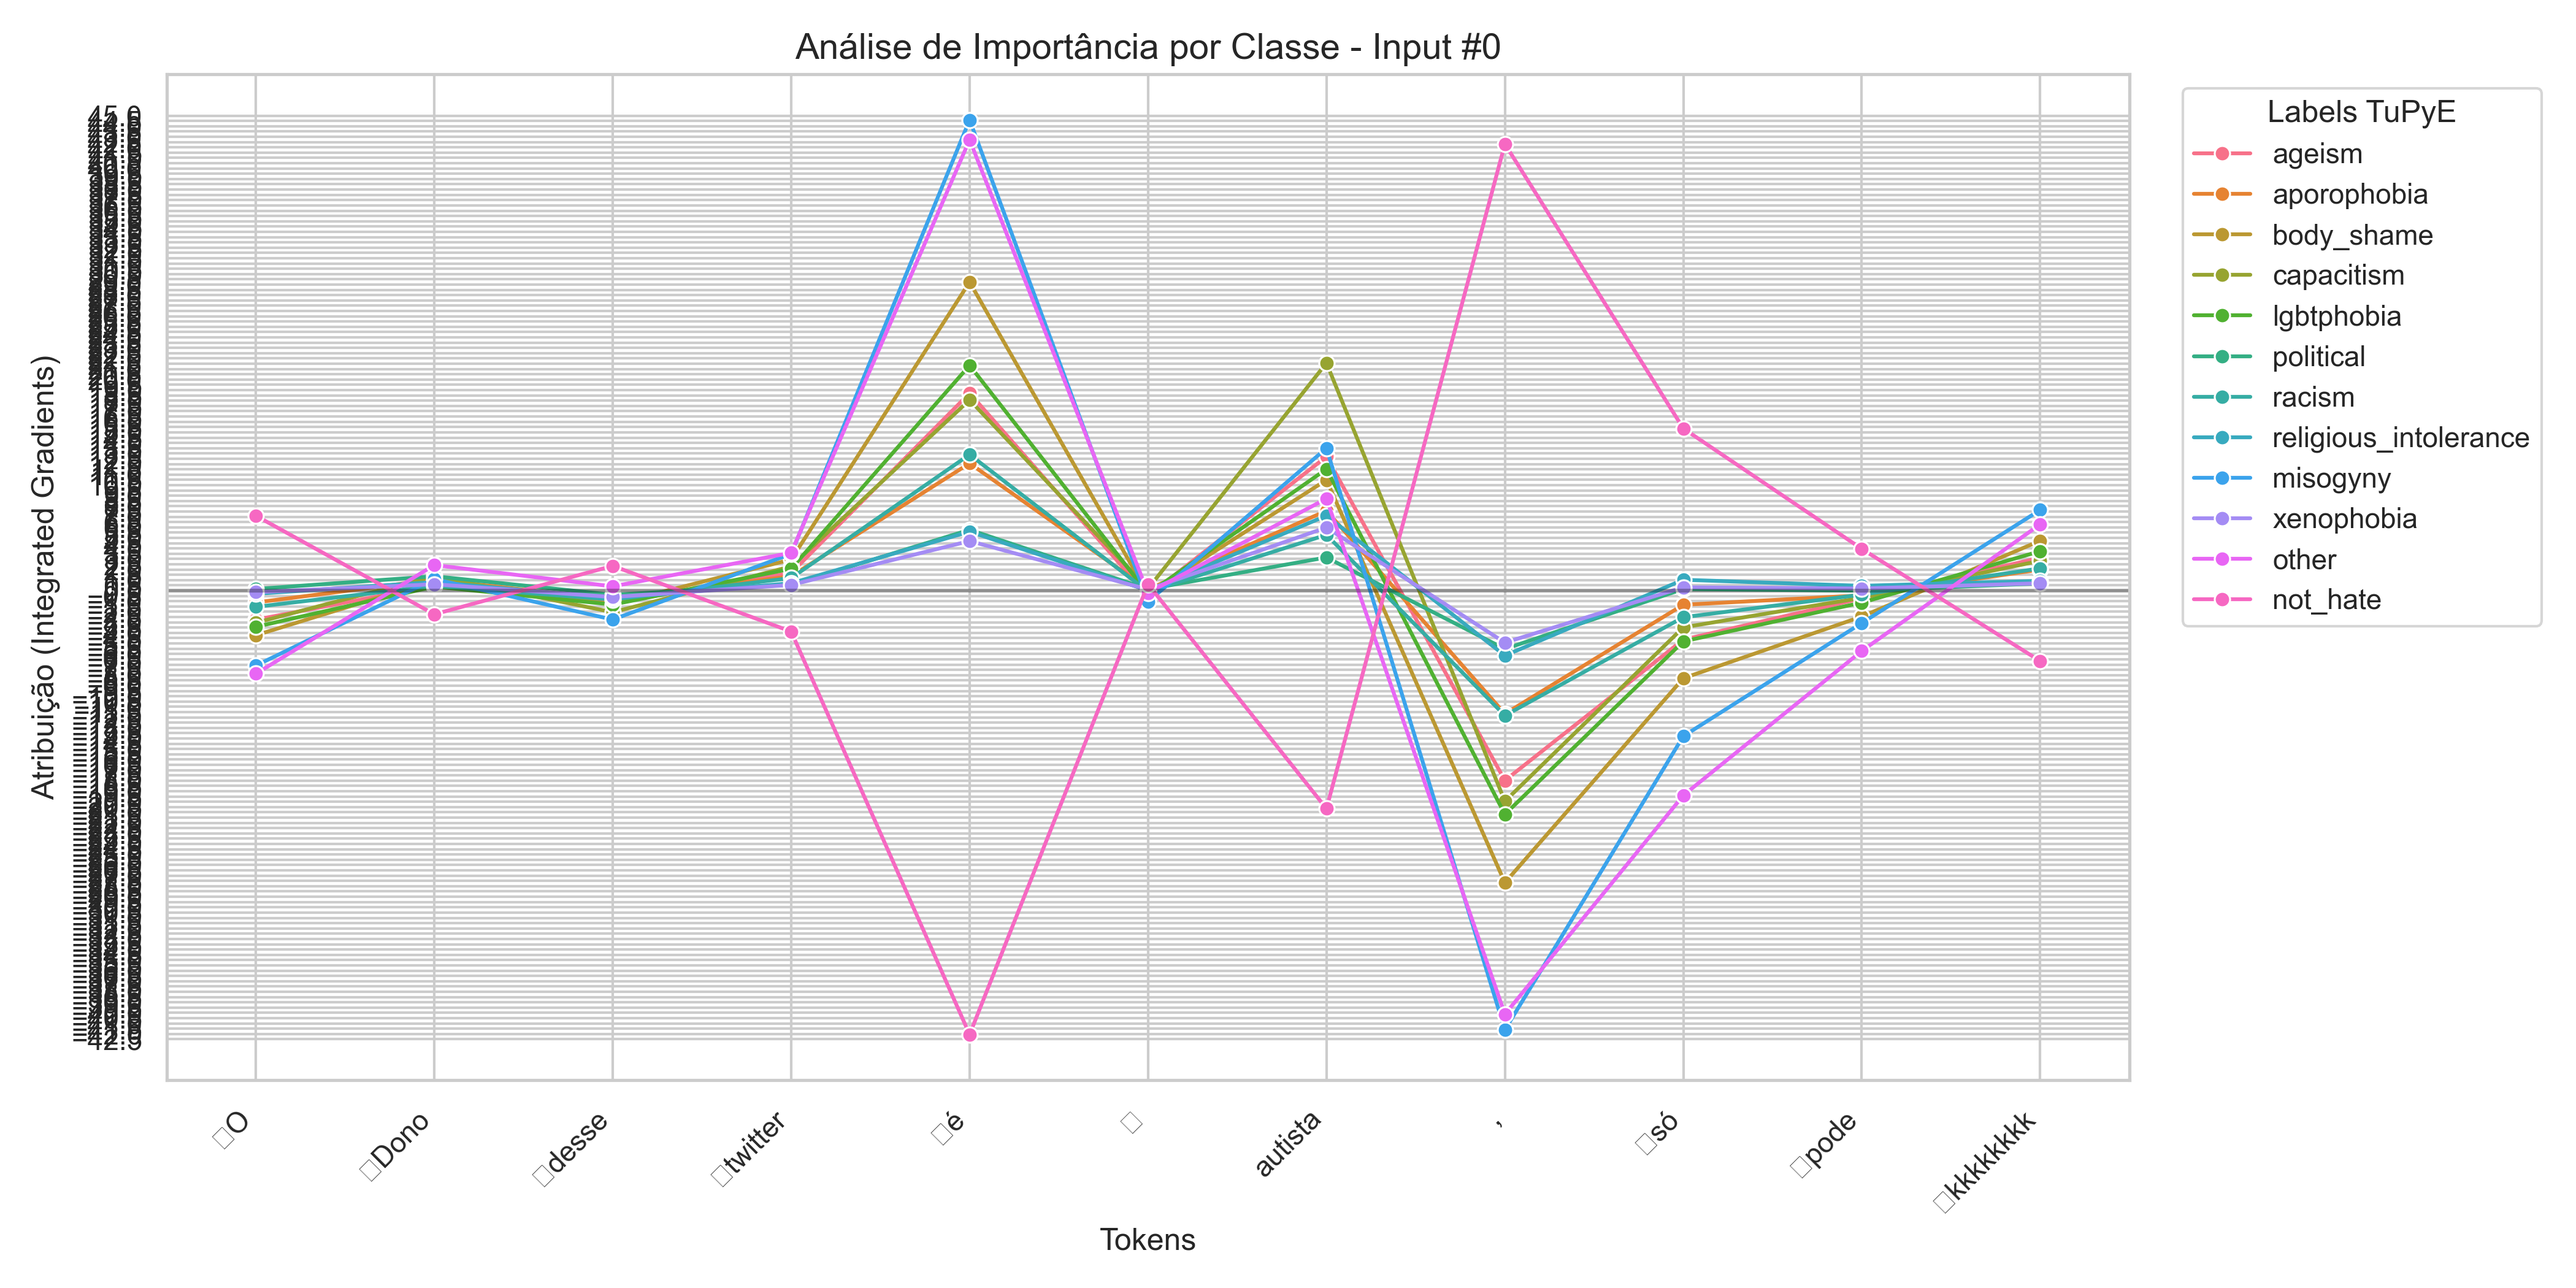
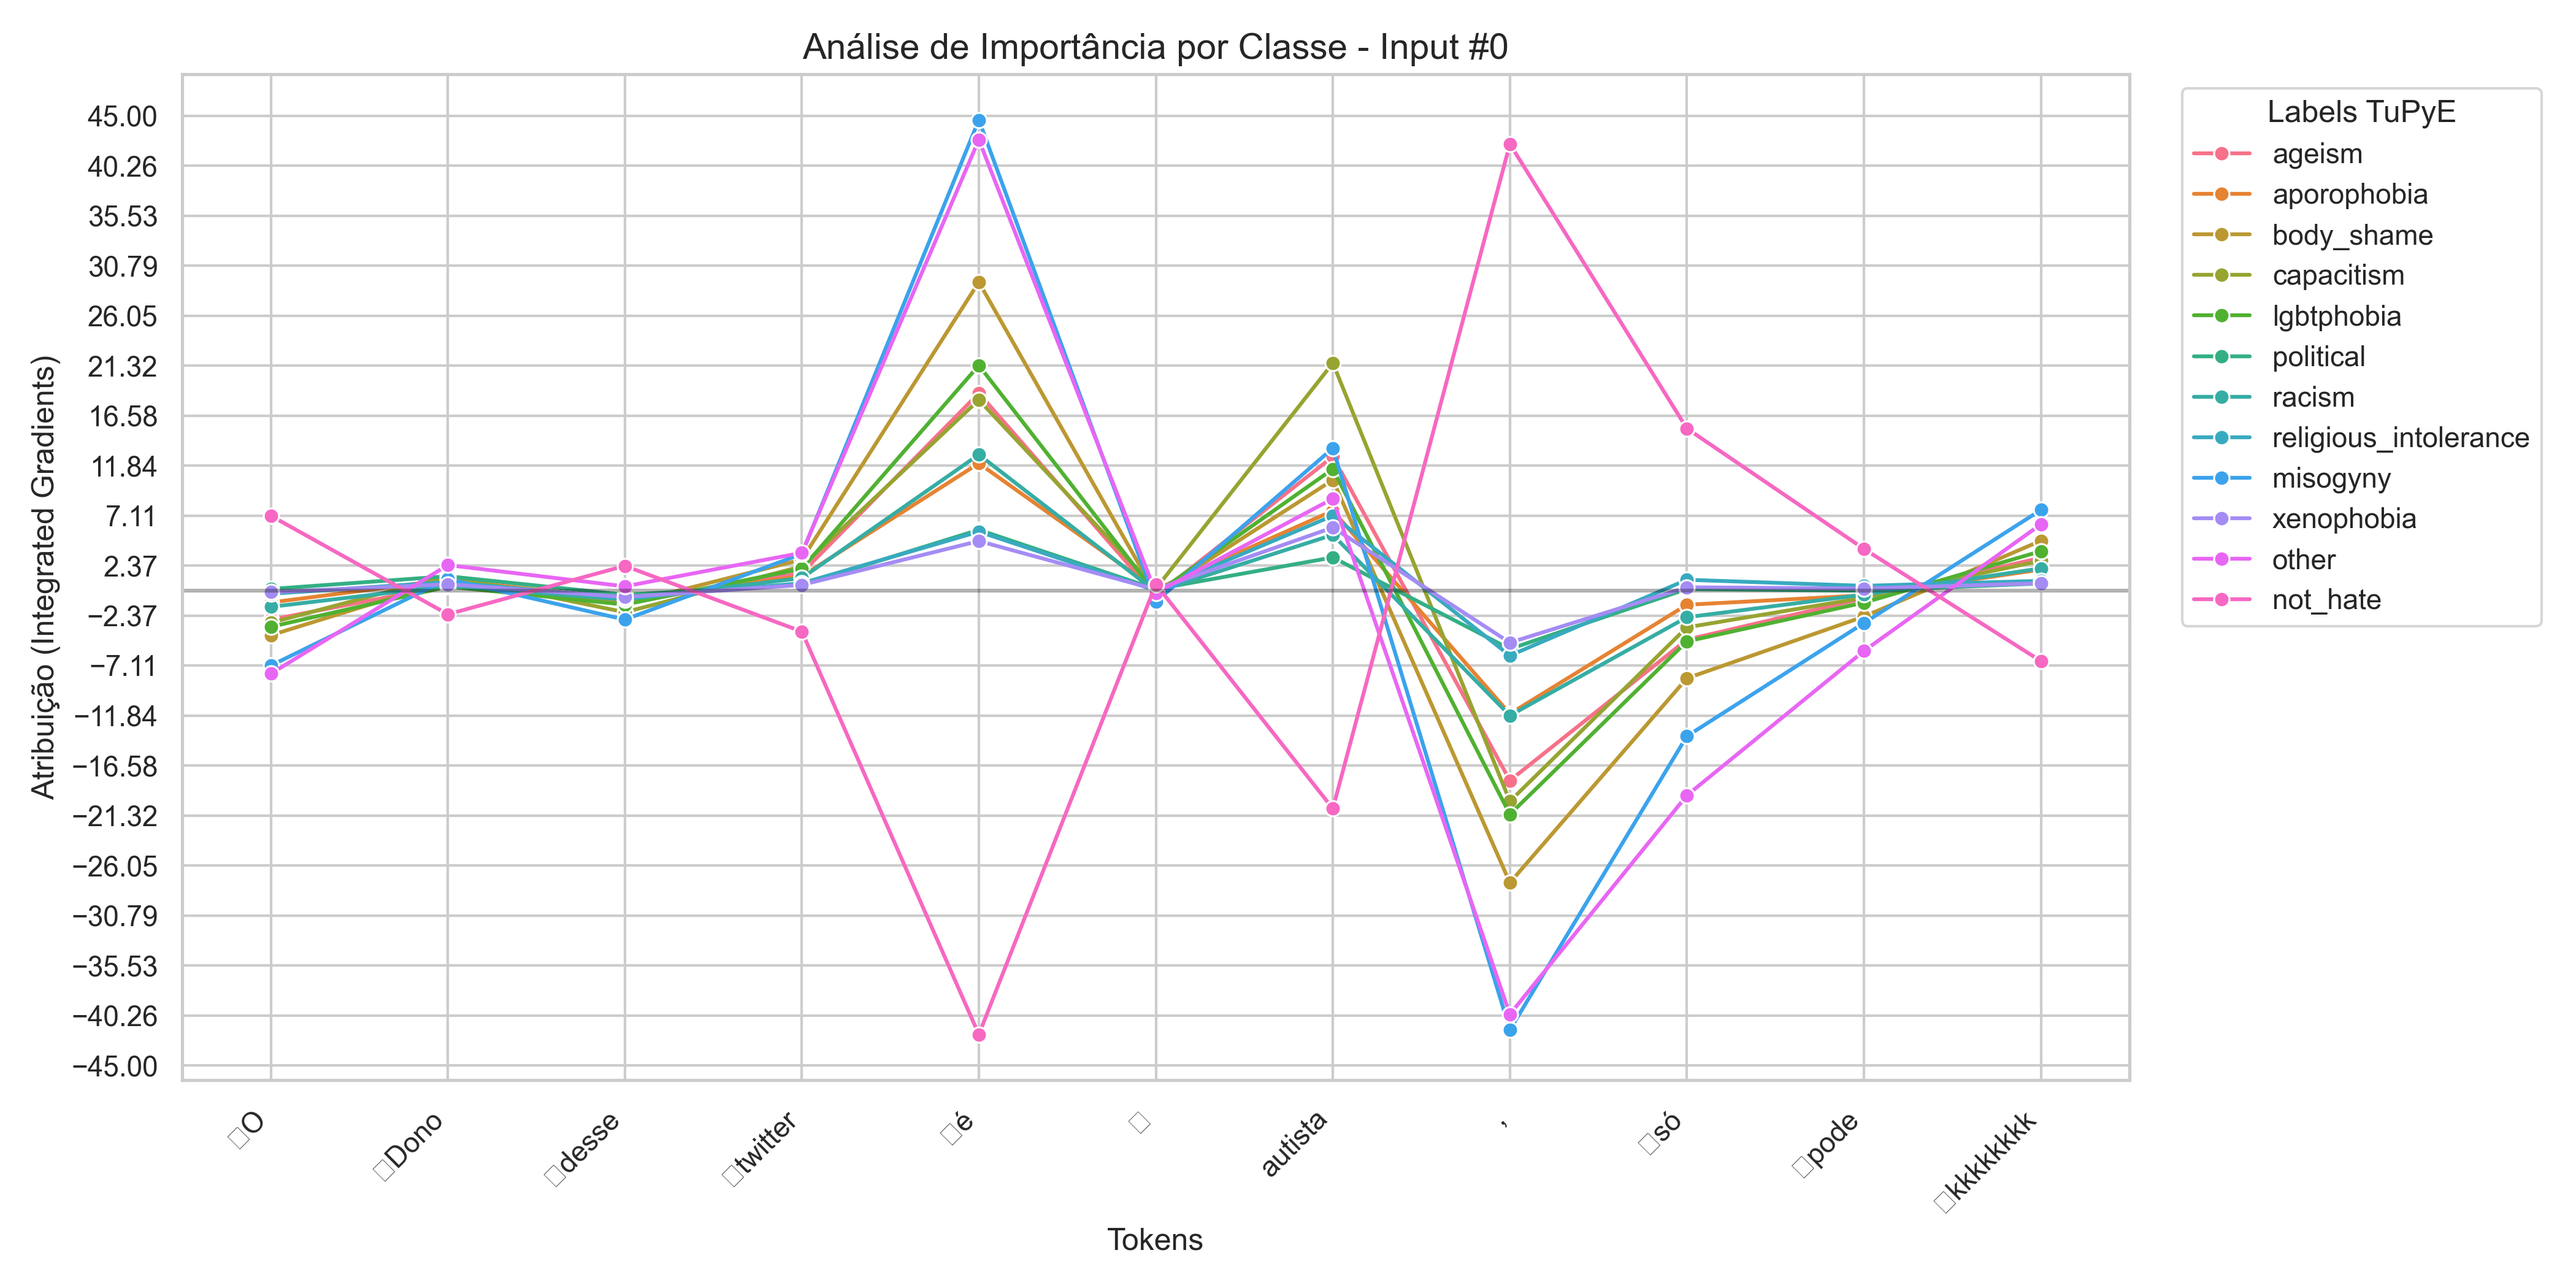
correção plot de alguns modelos e padronização de plot, ainda falta refazer para todos os modelos

diff --git a/src/dataVisualization.py b/src/dataVisualization.py
@@ -1,7 +1,8 @@
+import math
+import numpy as np
+import pandas as pd
 import seaborn as sns
 import matplotlib.pyplot as plt
-import pandas as pd
-import numpy as np
 from src import config
 
 def plotAttributions(df: pd.DataFrame, input_index, save_path=None, show=True):
@@ -20,13 +21,16 @@ def plotAttributions(df: pd.DataFrame, input_index, save_path=None, show=True):
     plot = sns.lineplot(data=df_long, x="token", y="Attribution", hue="Class", marker='o', linewidth=1.5, palette="husl")
     
     # 3. Ajustes de escala e estética
-    y_min, y_max = df_long["Attribution"].min(), df_long["Attribution"].max()
-    
     plt.axhline(0, color='black', linestyle='-', alpha=0.3)
     
+    y_min, y_max = df_long["Attribution"].min(), df_long["Attribution"].max()
+    
+    y_min, y_max = math.floor(y_min / 5) * 5, math.ceil(y_max / 5) * 5 # arredonda valores para multiplo de 5
+    
     # Evita que o yticks quebre se os valores forem muito pequenos
-    if abs(y_max - y_min) > 0.1:
-        plt.yticks(np.arange(np.floor(y_min*2)/2, np.ceil(y_max*2)/2 + 0.5, 0.5))
+    ticks = np.linspace(y_min, y_max, 20)
+    ticks = np.round(ticks, 2)
+    plt.yticks(ticks)
 
     plt.xticks(rotation=45, ha='right')
     plt.title(f'Análise de Importância por Classe - Input #{input_index}', fontsize=14)
